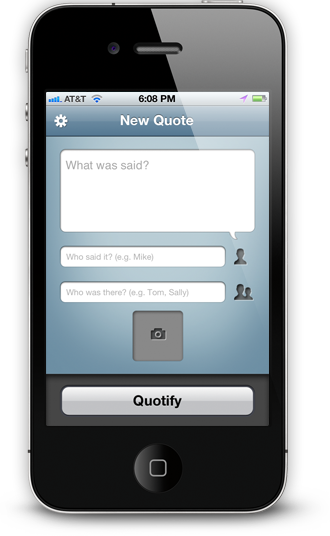
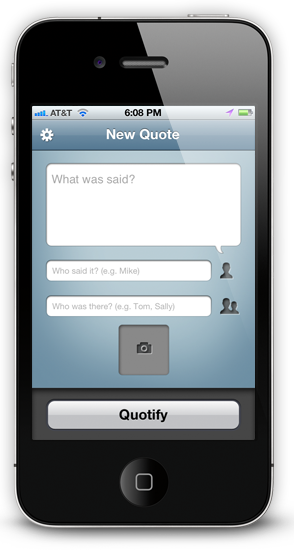
fixes for evan on LP

diff --git a/public/assets/Styles/index.css b/public/assets/Styles/index.css
@@ -16,7 +16,8 @@ body {
 
 #top {
 
-	height: 540px;
+	background: url(/assets/Images/lp/glow.png) no-repeat;
+	height: 470px;
 	background-color: #9ab5c0;
 
 }
@@ -24,15 +25,15 @@ body {
 #logo{
 	
 	left: 50%;
-	margin-left: -520px;
+	margin-left: -600px;
 	position: absolute;
-	top: -30px;
+	top: -90px;
 }
 
 #top #buttons{
 
 	bottom: -40px;
-	margin-left: -200px;
+	margin-left: -280px;
 	position: absolute;
 	left: 50%;
 	z-index: 10;
@@ -70,7 +71,7 @@ body {
 #middle #left {
 
 	position: absolute;
-	left: 70px;
+	left: 0px;
 	top: 150px;
 
 }
@@ -79,7 +80,7 @@ body {
 
 	cursor: pointer;
 	position: absolute;
-	margin-left: -100px;
+	margin-left: -170px;
 	left: 50%;
 	top: 90px;
 
@@ -88,7 +89,7 @@ body {
 #middle #right {
 
 	position: absolute;
-	left: 650px;
+	left: 580px;
 	top: 180px;
 
 }
@@ -124,7 +125,7 @@ body {
 
 	color: #afafaf;
 	font-size: 16px;
-	margin-left: 20px;
+	margin-left: 10px;
 
 }
 

diff --git a/public/index.html b/public/index.html
@@ -70,7 +70,6 @@ the quotable quotes from your life.</title>
 	</div>
 		<!-- modal content -->
 		<div id="basic-modal-content">
-			<h3>What's a Quotify.it?</h3>
 			<iframe id="player1" src="http://player.vimeo.com/video/33819280?title=0&amp;byline=0&amp;portrait=0&amp;autoplay=false&amp;api=true" width="400" height="225" frameborder="0" webkitAllowFullScreen mozallowfullscreen allowFullScreen></iframe>		
 		</div>
 	

diff --git a/public/assets/Styles/quote.css b/public/assets/Styles/quote.css
@@ -42,7 +42,7 @@ body {
 
 #quote {
 
-	background: url(/Assets/Images/quote/quotebubble.png) no-repeat;
+	background: url(/assets/Images/quote/quotebubble.png) no-repeat;
 	height: 574px;
 	left: 50%;
 	margin-left: -550px;
@@ -93,7 +93,7 @@ body {
 }
 #top #thumbnail img {
 
-	border: 2px black #544e42;
+	border: 2px black #544e42 !important;
 	max-height: 235px;
 	max-width: 235px;
 
